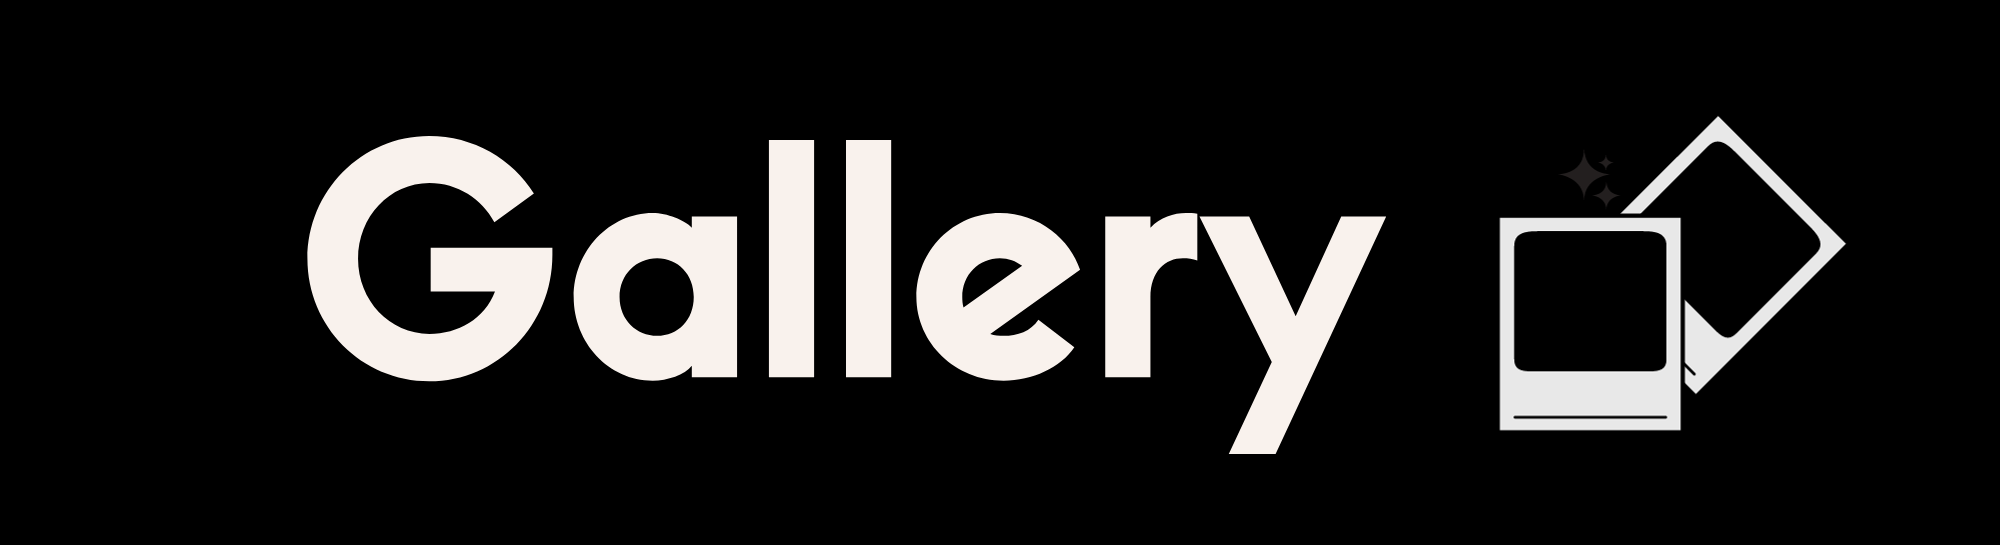
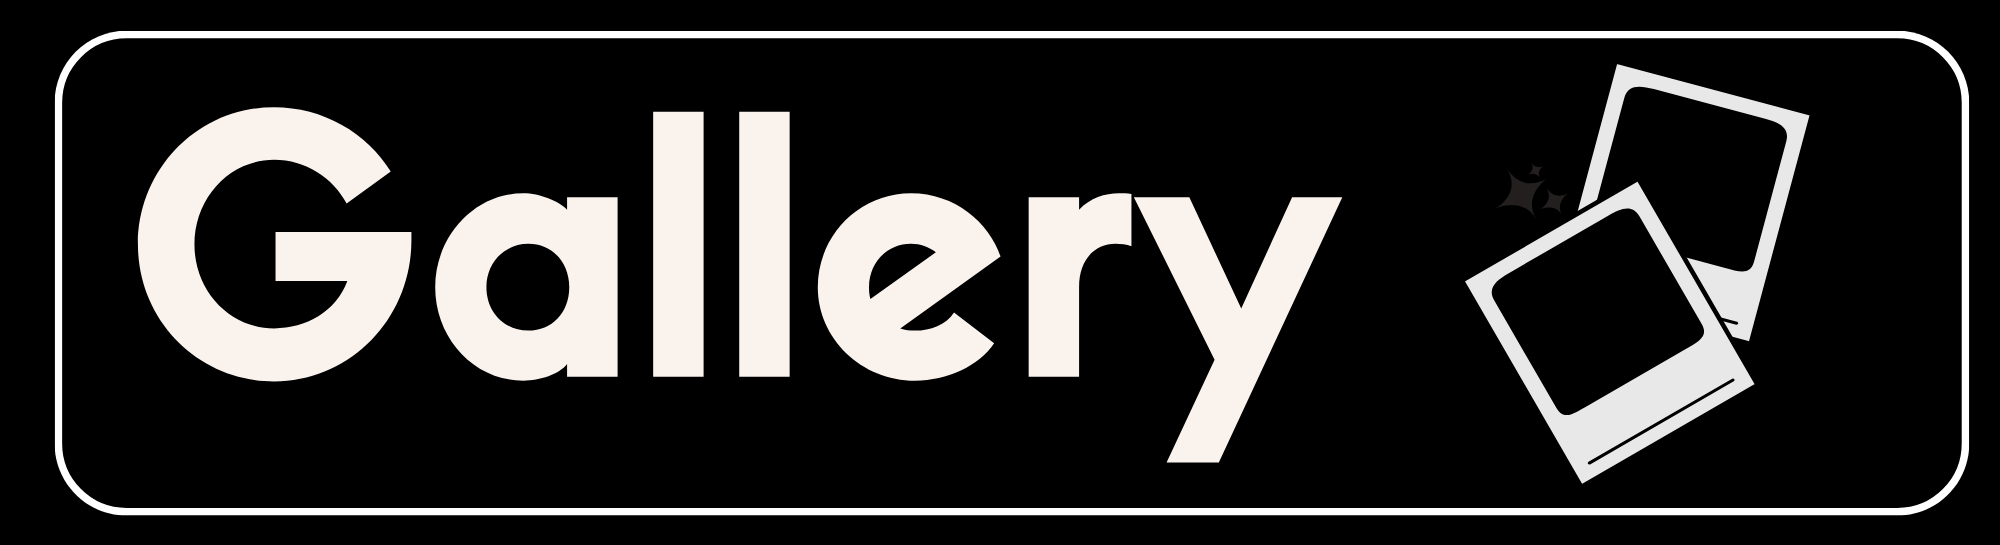
I learned a little more. Too many vw's and vh's. Redoing my sizings to make responsive images. But this is also the first branch to include new gallery. I also need to add ideas for entire page layout AKA - Abu car, coming out of drive, left/right all recorded (gifs) Selecting option drives out, bri

diff --git a/css/index.css b/css/index.css
@@ -12,8 +12,8 @@ html {
 body{
     background-image: url(/res/bmwbg.jpg);
     background-repeat: no-repeat;
-    background-size: cover;
-    background-position:center;
+    background-size:100vw 120vh;
+    background-position: center;
 }
 
 
@@ -65,9 +65,10 @@ body{
 
 
 #gallerysticker{
-position:fixed;
-width:16%;
-top: 65%;
+position:absolute;
+width:13vw;
+height: 6vh;
+bottom: 13%;
 left: 49%;
 transform: translate(-50%, -50%);
 border-radius: 12px;
@@ -234,6 +235,8 @@ display:none;
     flex:1;
     transition: 625ms ease-in-out;
     z-index:2;
+    outline: solid red;
+    overflow: visible;
 }
 
 
@@ -247,11 +250,11 @@ display:none;
 }
 #serv{
     transform: rotate(-5deg) translateX(-4%);
-    justify-content: end;
+    margin-right: -4vw;
 }
 #cont{
-    justify-content: start;
     transform: rotate(5deg);
+    margin-left: -4vw
 }
 #cont:hover{
     transform: none;
@@ -262,13 +265,13 @@ display:none;
 
 .stickrs{
     border-radius: 12px;
-    width: 40%;
+    width: 14vw;
     min-width: 150px;
     cursor:pointer;
     transition: 1s;
 }
 .lrgstckr{
-    width: 90%;
+    width: 25vw;
     box-shadow: 0 0 6px 5px rgb(255, 255, 255);
 }
 

diff --git a/index.html b/index.html
@@ -49,7 +49,7 @@
                 </li>
 
                 <li>
-                        <img src="/res/Gallery.png" id="gallerysticker">
+                        <img src="/res/redGallery.png" id="gallerysticker">
                 </li>
 
                 <ul id="smlinks">
